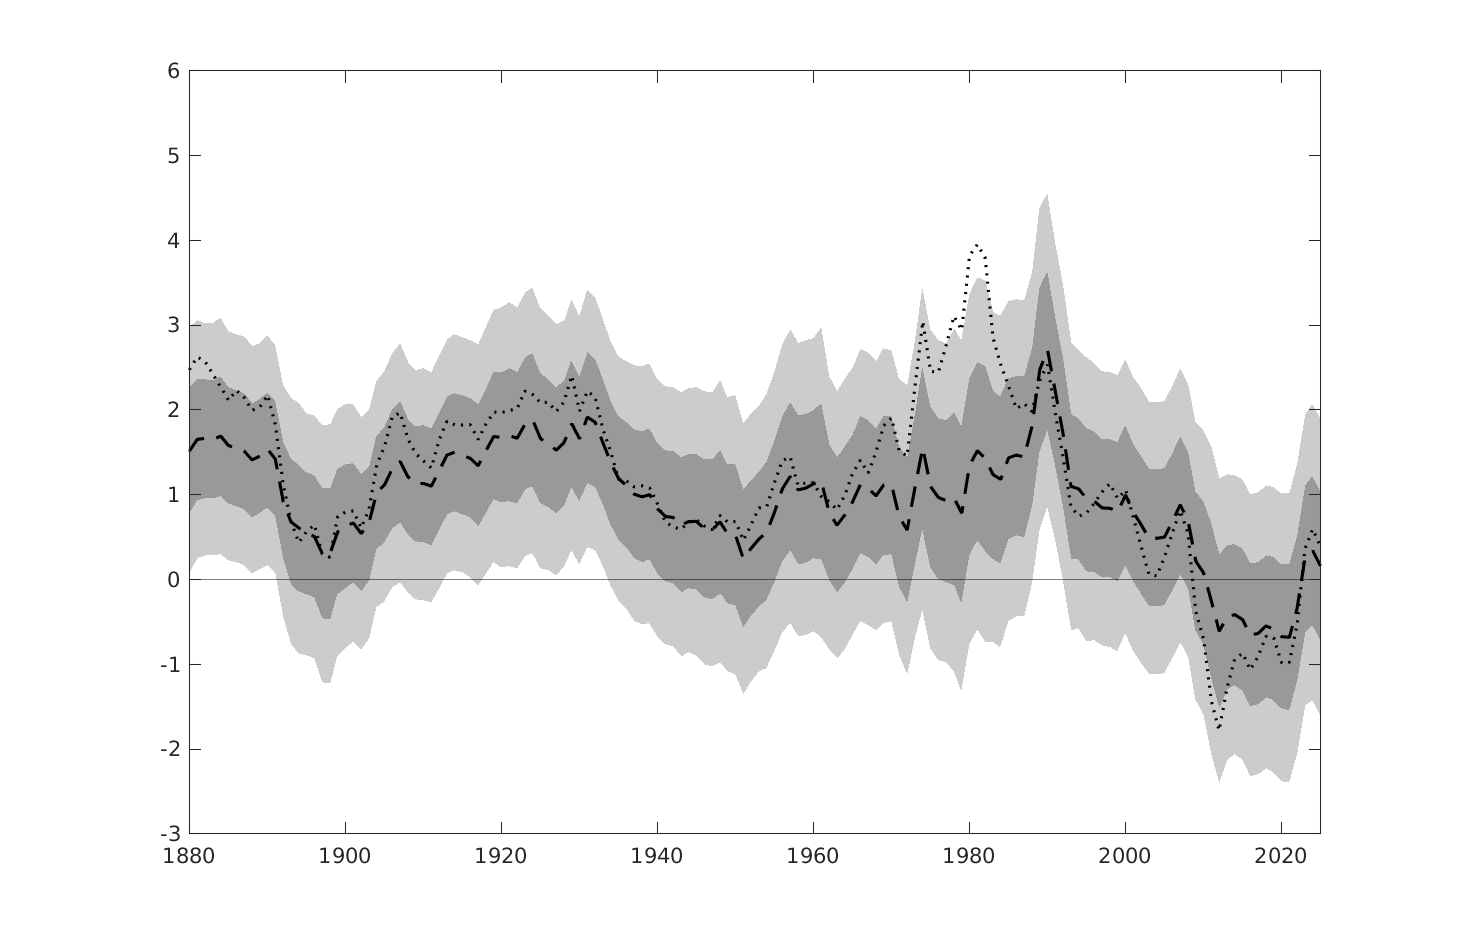
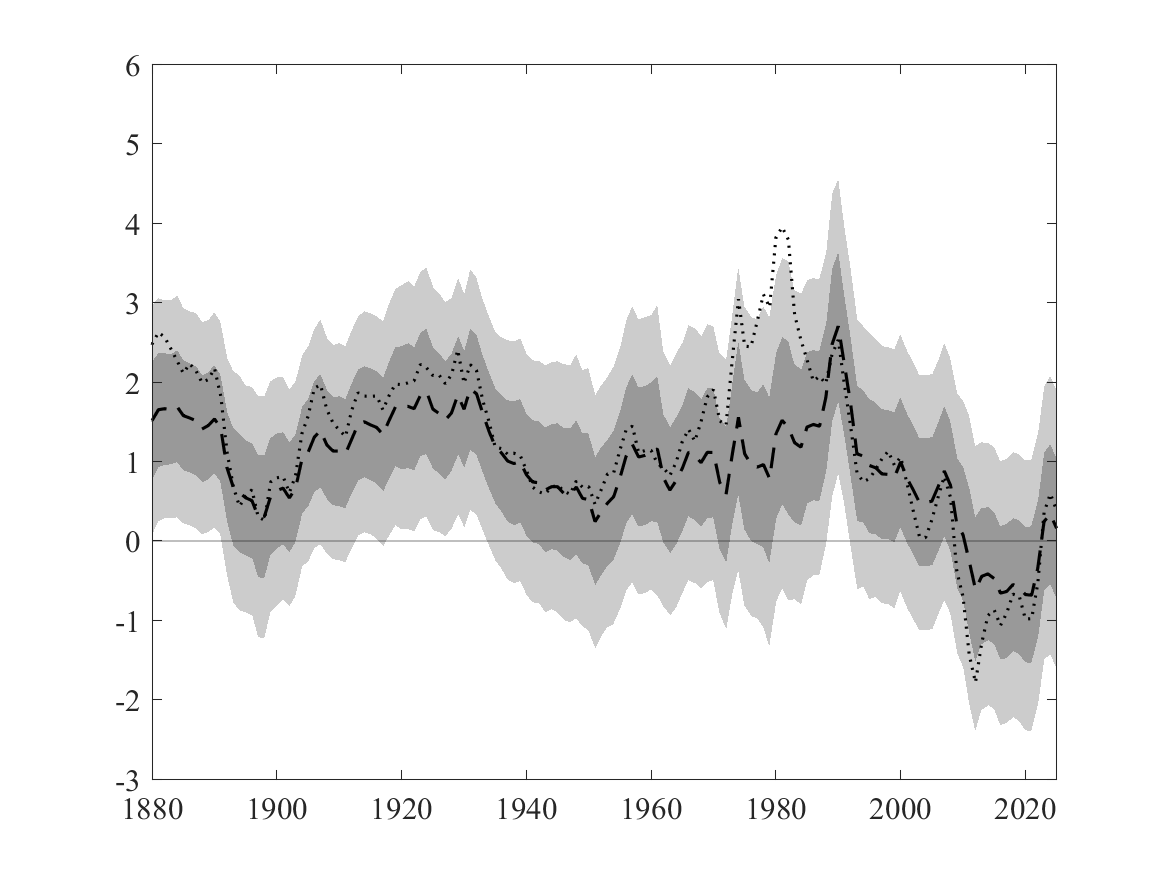
Unify Model 1 figure+PNG generation; restyle public update/ PNGs
MainModel1_MakeFigures.m now emits the public update/ PNGs and 3 CSVs from the
same fig1/fig3b handles that print the paper PDFs (single source), replacing the
standalone make_update.m/run_update.m (deleted). Also fixes the hard-coded
axis([1880 2024 ...]) that clipped fig1 at 2024 -> Year(end), and stale
2017/2024 axis+period anchors in MainModel2_MakeFigures.m appendix figures.

Public per-country PNG now matches the paper fig3b styling; global+US PNG and the
3 CSVs are unchanged in data (Model 1, through 2025). Project_Status.md updated.

diff --git a/scripts/MainModel1_MakeFigures.m b/scripts/MainModel1_MakeFigures.m
@@ -115,12 +115,21 @@ hold on
 plot(Year, qRshort_bar_us(:, 3), ...
     'k:', 'LineWidth', 1.5);  % r-bar US
 
-axis([1880 2024 -3 6])
+axis([1880 Year(end) -3 6])
 xticks(1880:20:2020)
 % title('$\bar{r}^w_t$ and $\bar{r}_{US, t}$', 'Interpreter', 'latex')
 box on
 
 printpdf(gcf, [figpath 'fig1-Model1_Rshortbar-us.pdf'])
+
+% --- Public GitHub update/ artifacts: SAME figure handle -> PNG, plus CSVs. ---
+% Single source so the paper PDF and the repo PNG can never diverge again
+% (this is what replaced the old make_update.m). See Project_Status.md S8.
+saveas(gcf, '../update/qRshort_bar_us_global_m1.png');
+update_hdr = 'Year,r* 2.5 percentile,r* 16 percentile,r* median,r* 84 percentile,r* 97.5 percentile';
+write_update_csv('../update/qRshort_bar_global_m1.csv', update_hdr, Year, qRshort_bar);
+write_update_csv('../update/qRshort_bar_us_m1.csv',     update_hdr, Year, qRshort_bar_us);
+% ---------------------------------------------------------------------------
 
 
 %% Figure 2: Trends in Global Real Rates Under Alternative Priors for the 
@@ -267,6 +276,16 @@ box on
 printpdf(gcf, [figpath 'fig3b-Model1_Rshortbar-countries.pdf'])
 saveas(gcf, 'figure3.eps', 'epsc');
 
+% --- Public GitHub update/ artifact: SAME fig3b handle -> per-country PNG,
+% plus the 18-country r* CSV. Single source (replaced make_update.m). ---
+saveas(gcf, '../update/qRshort_bar_m1.png');
+Q18 = [];
+for kk = 1:numel(codes)
+    Q18 = [Q18, eval(sprintf('qRshort_bar_%s', codes{kk}))];
+end
+write_update_csv18('../update/qRshort_bar_m1.csv', codes, Year, Q18);
+% ---------------------------------------------------------------------------
+
 %% Compute table 1 main model values
 % 
 % Table1 = struct;
@@ -293,7 +312,7 @@ saveas(gcf, 'figure3.eps', 'epsc');
 % Define analysis periods
 periods = [
     1980, 2019;
-    2019, 2024
+    2019, 2025
 ];
 
 % Define the exact same variable as original code
@@ -852,3 +871,30 @@ axis([Year(1) Year(end) -3 6]);
 %title('Australia', 'Interpreter', 'latex')
 set(gca, 'FontSize', fSize)
 printpdf(gcf, [appenpath 'figa2-Model1_Rshort-countries_trend-idio_obs-average-au.pdf'])
+
+
+% ===== helpers: public update/ CSV writers (single source for repo results) =====
+% Emit the same CSVs the GitHub README links to. Moved here from the old
+% make_update.m so the figures and their data come from one script.
+function write_update_csv(f, hdr, Year, Q)
+    fid = fopen(f, 'w'); fprintf(fid, '%s\n', hdr);
+    for t = 1:numel(Year)
+        fprintf(fid, '%d', Year(t)); fprintf(fid, ',%.9g', Q(t,:)); fprintf(fid, '\n');
+    end
+    fclose(fid);
+end
+
+function write_update_csv18(f, codes, Year, Q)
+    Nc = numel(codes);
+    ql = {'r* 2.5 percentile','r* 16 percentile','r* median','r* 84 percentile','r* 97.5 percentile'};
+    fid = fopen(f, 'w');
+    fprintf(fid, 'Year');
+    for i = 1:Nc; for j = 1:5; fprintf(fid, ',%s', codes{i}); end; end
+    fprintf(fid, '\n');
+    for i = 1:Nc; for j = 1:5; fprintf(fid, ',%s', ql{j}); end; end
+    fprintf(fid, '\n');
+    for t = 1:numel(Year)
+        fprintf(fid, '%d', Year(t)); fprintf(fid, ',%.15g', Q(t,:)); fprintf(fid, '\n');
+    end
+    fclose(fid);
+end

diff --git a/scripts/MainModel2_MakeFigures.m b/scripts/MainModel2_MakeFigures.m
@@ -172,7 +172,7 @@ printpdf(gcf, [figpath 'fig6c-Model2_Rbar-Mbar-allcountries.pdf'])
 % Define analysis periods
 periods = [
     1980, 2019;
-    2019, 2024
+    2019, 2025
 ];
 
 % Define variables to analyze (matching the table structure)
@@ -447,7 +447,7 @@ p_ca = plot(Year, Infl_ca, 'r:', 'LineWidth', 1);
 p_it = plot(Year, Infl_it, 'g:', 'LineWidth', 1);
 p_jp = plot(Year, Infl_jp, 'm:', 'LineWidth', 1);
 
-xlim([1870 2017])
+xlim([Year(1) Year(end)])
 ylim([-3 15])
 yticks(0:5:15)
 

diff --git a/Project_Status.md b/Project_Status.md
@@ -195,8 +195,16 @@ is `fig1-Model1_…`, "Baseline Model") and the Rachel discussion. The previousl
 published 18-country file `qRshort_bar_m2.*` was actually built from **Model 2**
 (its US 2024 ≈ 1.01 = Model 2 vs Model 1's ≈ 0.59); on 2026-07-17 it was corrected
 to Model 1 and **renamed** `qRshort_bar_m2` → `qRshort_bar_m1` (README links
-updated, old files removed). Regenerated for 2025 by **`scripts/make_update.m`**
-(driver `run_update.m`, ~40 GB) from `results/18/OutputModel1.mat`.
+updated, old files removed). **Emitted directly by
+`scripts/MainModel1_MakeFigures.m`** (via driver `make_figs_m1.m`): the same
+figure handles that print the paper PDFs `fig1-Model1_Rshortbar-us` and
+`fig3b-Model1_Rshortbar-countries` also `saveas` those two PNGs and write the
+three CSVs into `update/`. This single-source setup **replaced the standalone
+`make_update.m` / `run_update.m` (removed 2026-07-17)** so the paper PDF and the
+repo PNG can never diverge — that divergence is exactly what let a hard-coded
+`axis([1880 2024 …])` clip `fig1` at 2024 while the PNG (drawn by the other
+script, with `max(Year)`) correctly ran to 2025. The public per-country PNG now
+matches the paper's `fig3b` styling.
 
 **Slide-format tables.** The Rachel-discussion / BIS-slides tables are the
 `GlobalUS_*.tex` script output *mapped* via Table 1's footnote rule: each cell
@@ -217,9 +225,10 @@ its footnote says 95%. Consuming `.tex` needs `\usepackage{makecell}`.
 2. **Pull the code from `master`.** `git clone` / `git pull` this repo — the
    runnable pipeline (scripts, drivers, wired data) lives on `master`.
 3. **Run the scripts** (cluster, `matlab20a-batch-withemail`): estimate Models 1 & 2
-   via `run_model1.m` / `run_model2.m` (and 3 / var01 if wanted); then `run_update.m`
-   to regenerate the `update/` CSVs + PNGs, and `run_tables.m` for the `GlobalUS_*.tex`
-   (incl. slide-format) tables.
+   via `run_model1.m` / `run_model2.m` (and 3 / var01 if wanted); then the figure
+   jobs `make_figs_m1.m` / `make_figs_m2.m` / `make_figs_m3.m` — **`make_figs_m1.m`
+   now also regenerates the `update/` CSVs + PNGs** as a side effect (no separate
+   step) — and `run_tables.m` for the `GlobalUS_*.tex` (incl. slide-format) tables.
 4. **Upload to GitHub.** Commit and push BOTH the new code and the new results —
    the updated `update/` files (and README if names change) plus any script edits.
    Do NOT commit `results/*.mat` (huge) or `scripts/data/api_keys.py` (secret);